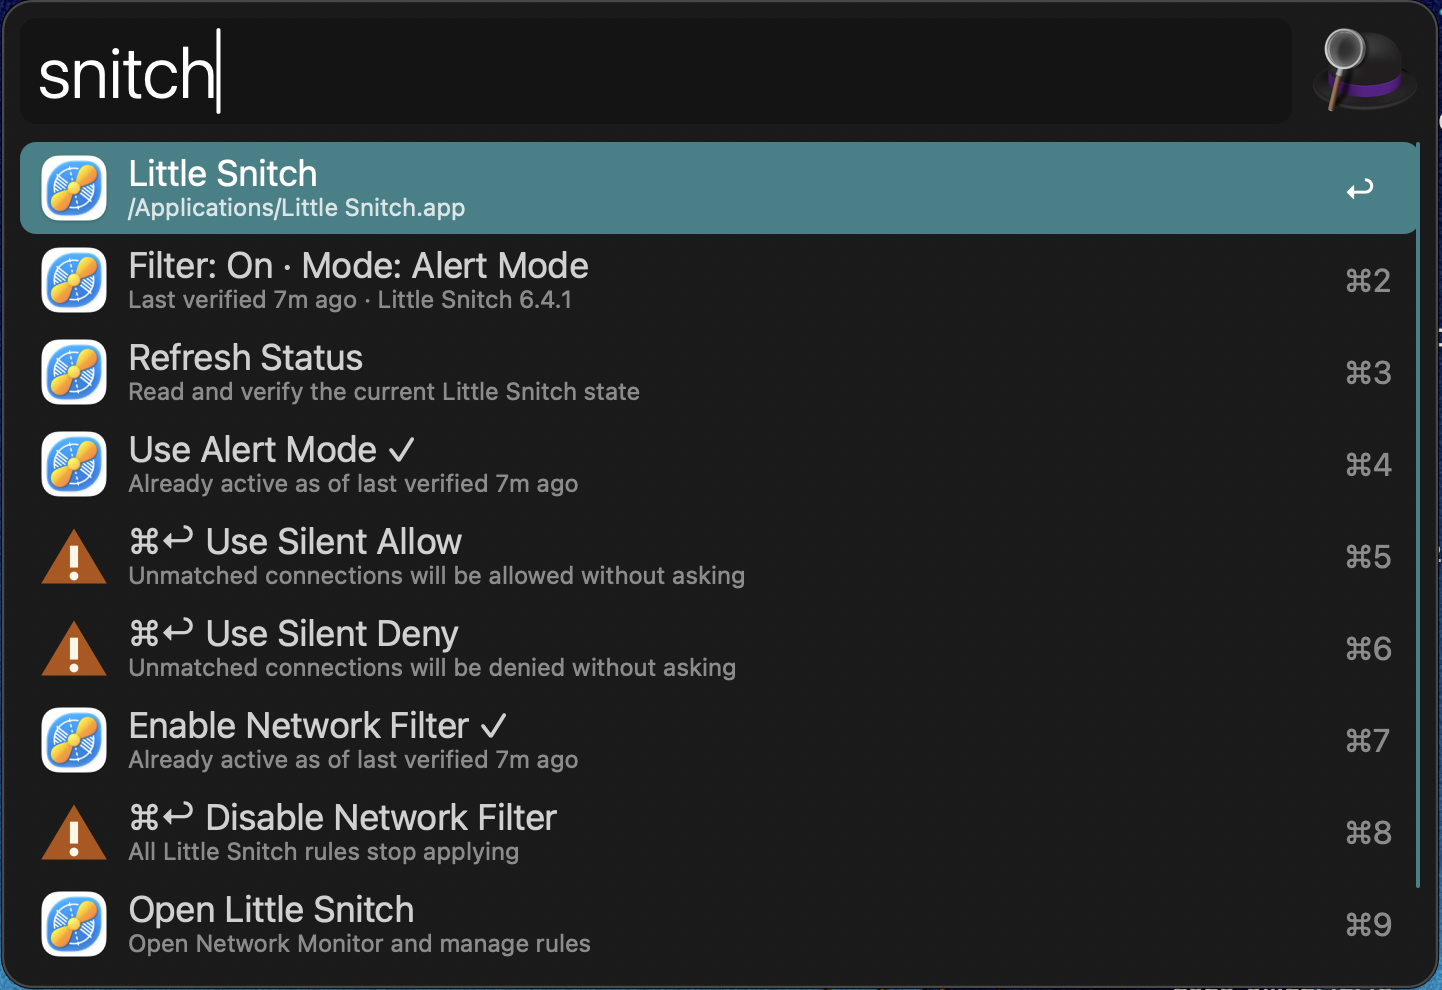
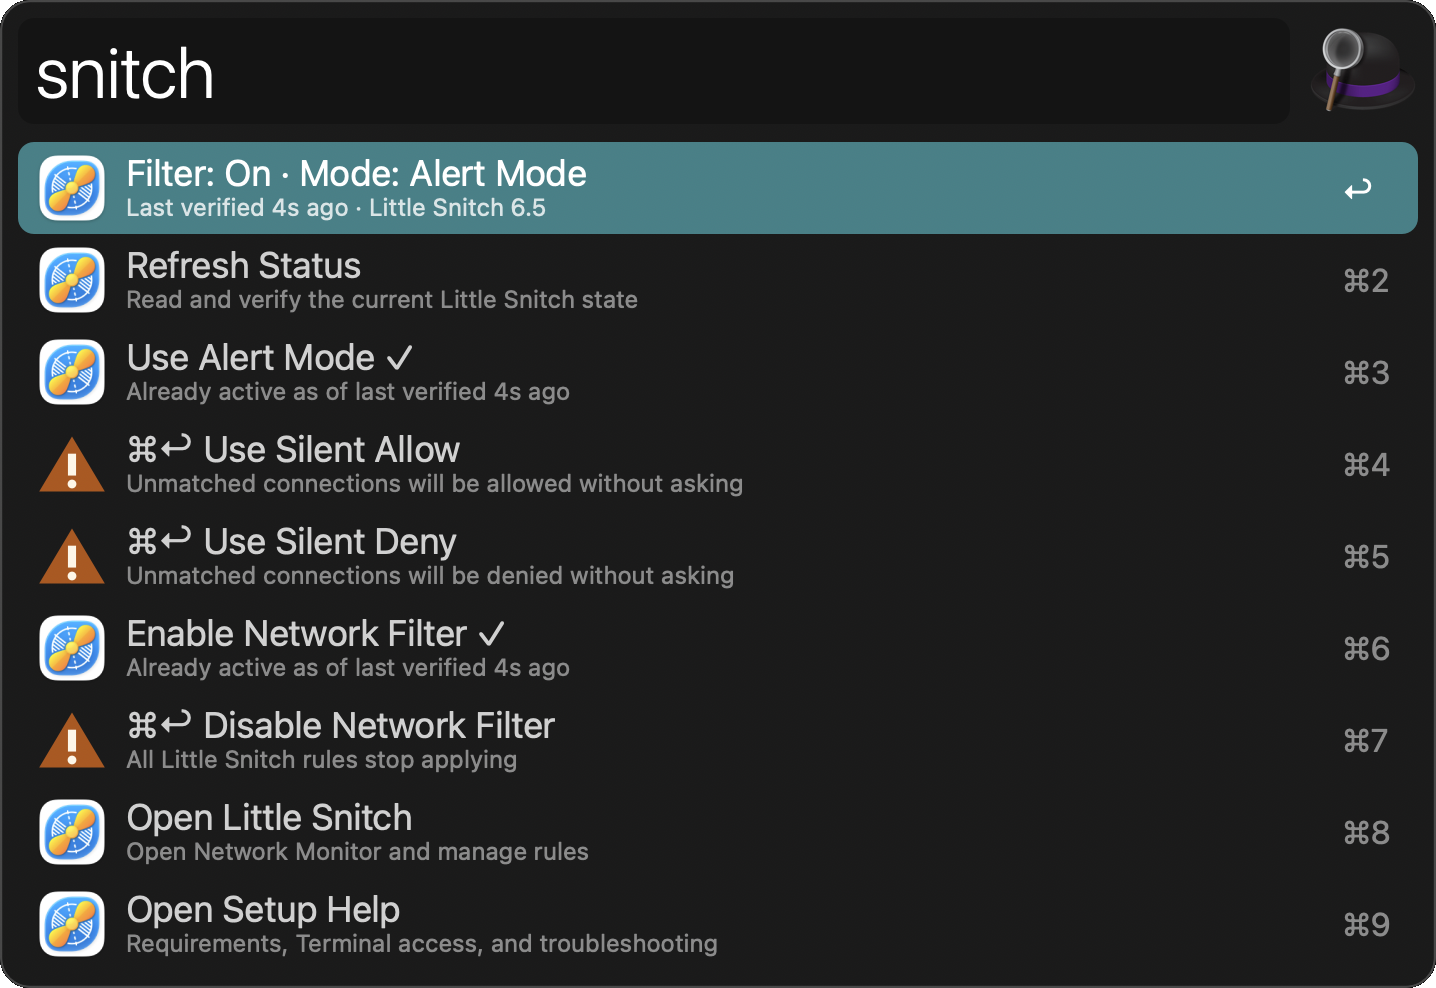
docs: retake the README screenshot in keyword mode, record the 6.5 re-check
The old screenshot was taken without entering the workflow, so its
highlighted first row was Alfred's own "Little Snitch" launcher result.
The README warns against exactly that two sections later.

The new one shows only the workflow's rows, with the status row selected
on a verified state (Little Snitch 6.5) and the Open Setup Help row the
old crop cut off. It is cropped to the Alfred window with transparent
rounded corners. The capture had the terminal behind it, session output
included, showing around the window. Metadata is stripped.

docs/VERIFIED-MODES.md is the report scripts/verify-modes.zsh wrote
during the 0.3.1 manual test. The mapping still matches on Little Snitch
6.5, and only the date changes.

Neither file is in the archive, so the release candidate's bytes do not
change.

Closes #14

Changed region(s): [[0.0, 0.0, 1.0, 1.0], [0.9192, 0.1822, 0.9499, 0.2126], [0.0, 0.0, 0.0306, 0.0304]]

diff --git a/docs/VERIFIED-MODES.md b/docs/VERIFIED-MODES.md
@@ -6,7 +6,7 @@ readings.
 
 - Little Snitch: 6.5
 - macOS: 26.7.1 (arm64)
-- Checked: 2026-10-09
+- Checked: 2026-10-14
 
 | Little Snitch operation mode | `activeSilentMode` | Workflow action |
 | --- | --- | --- |
